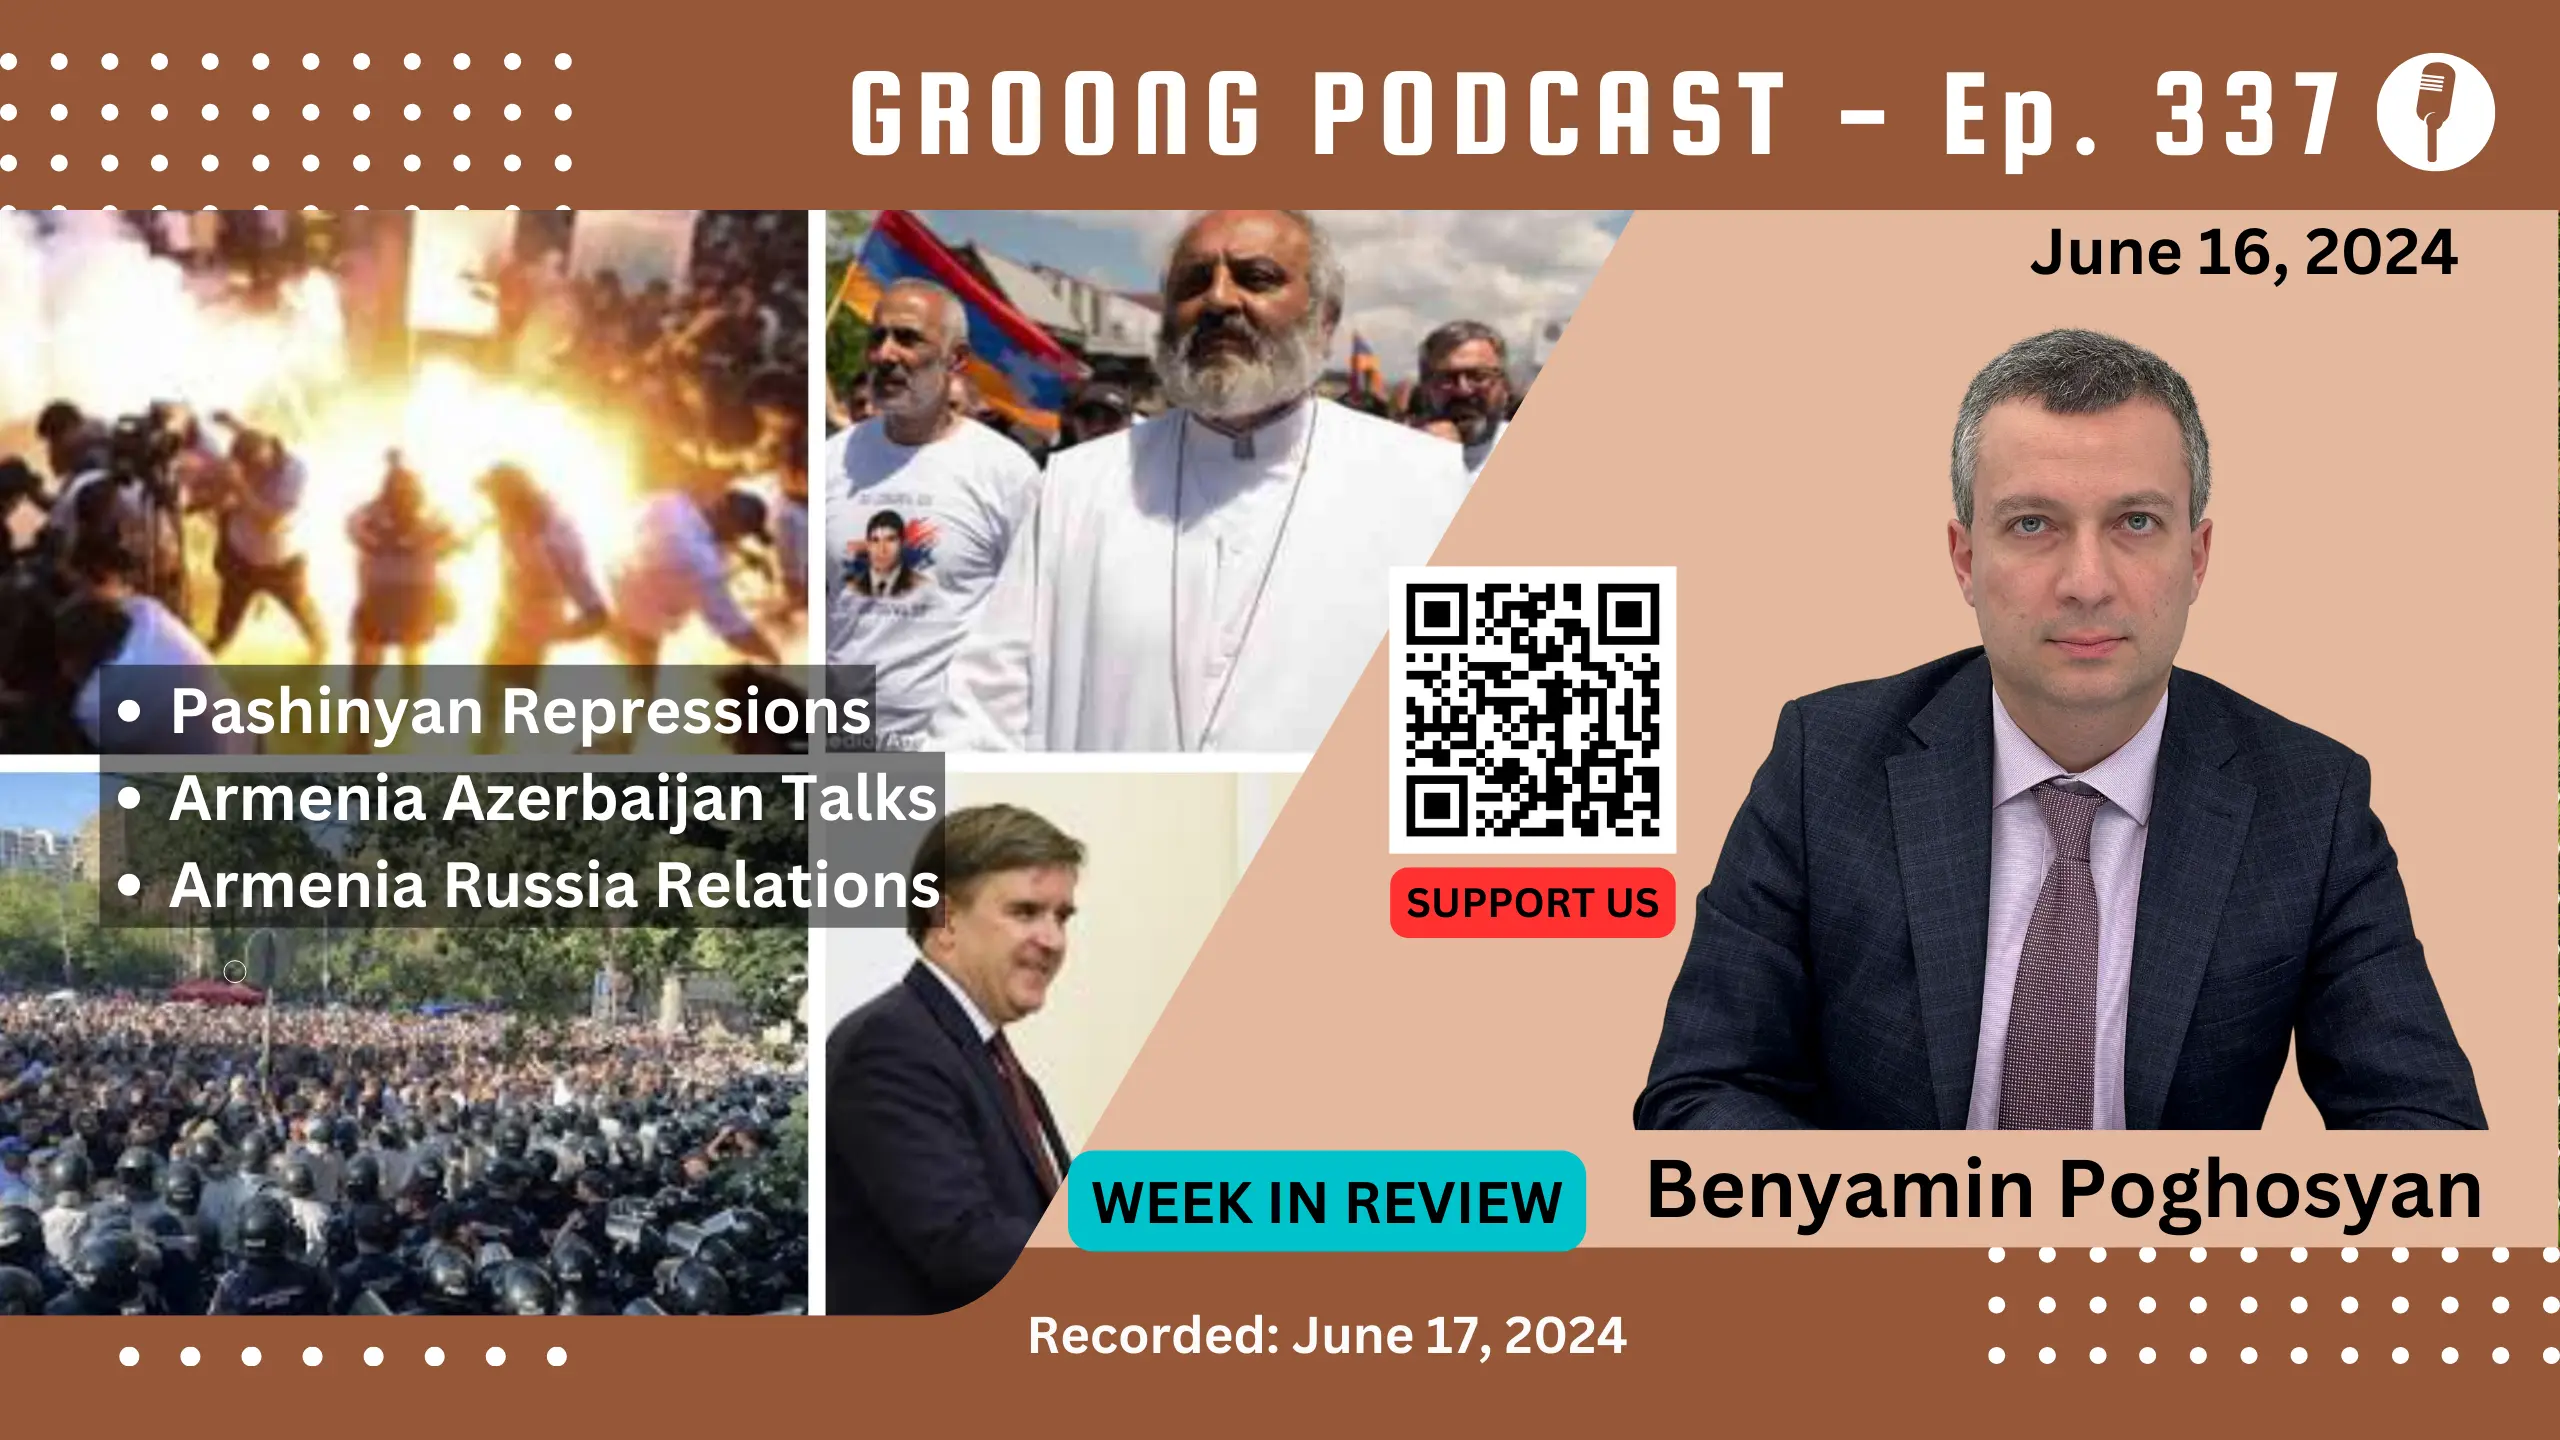
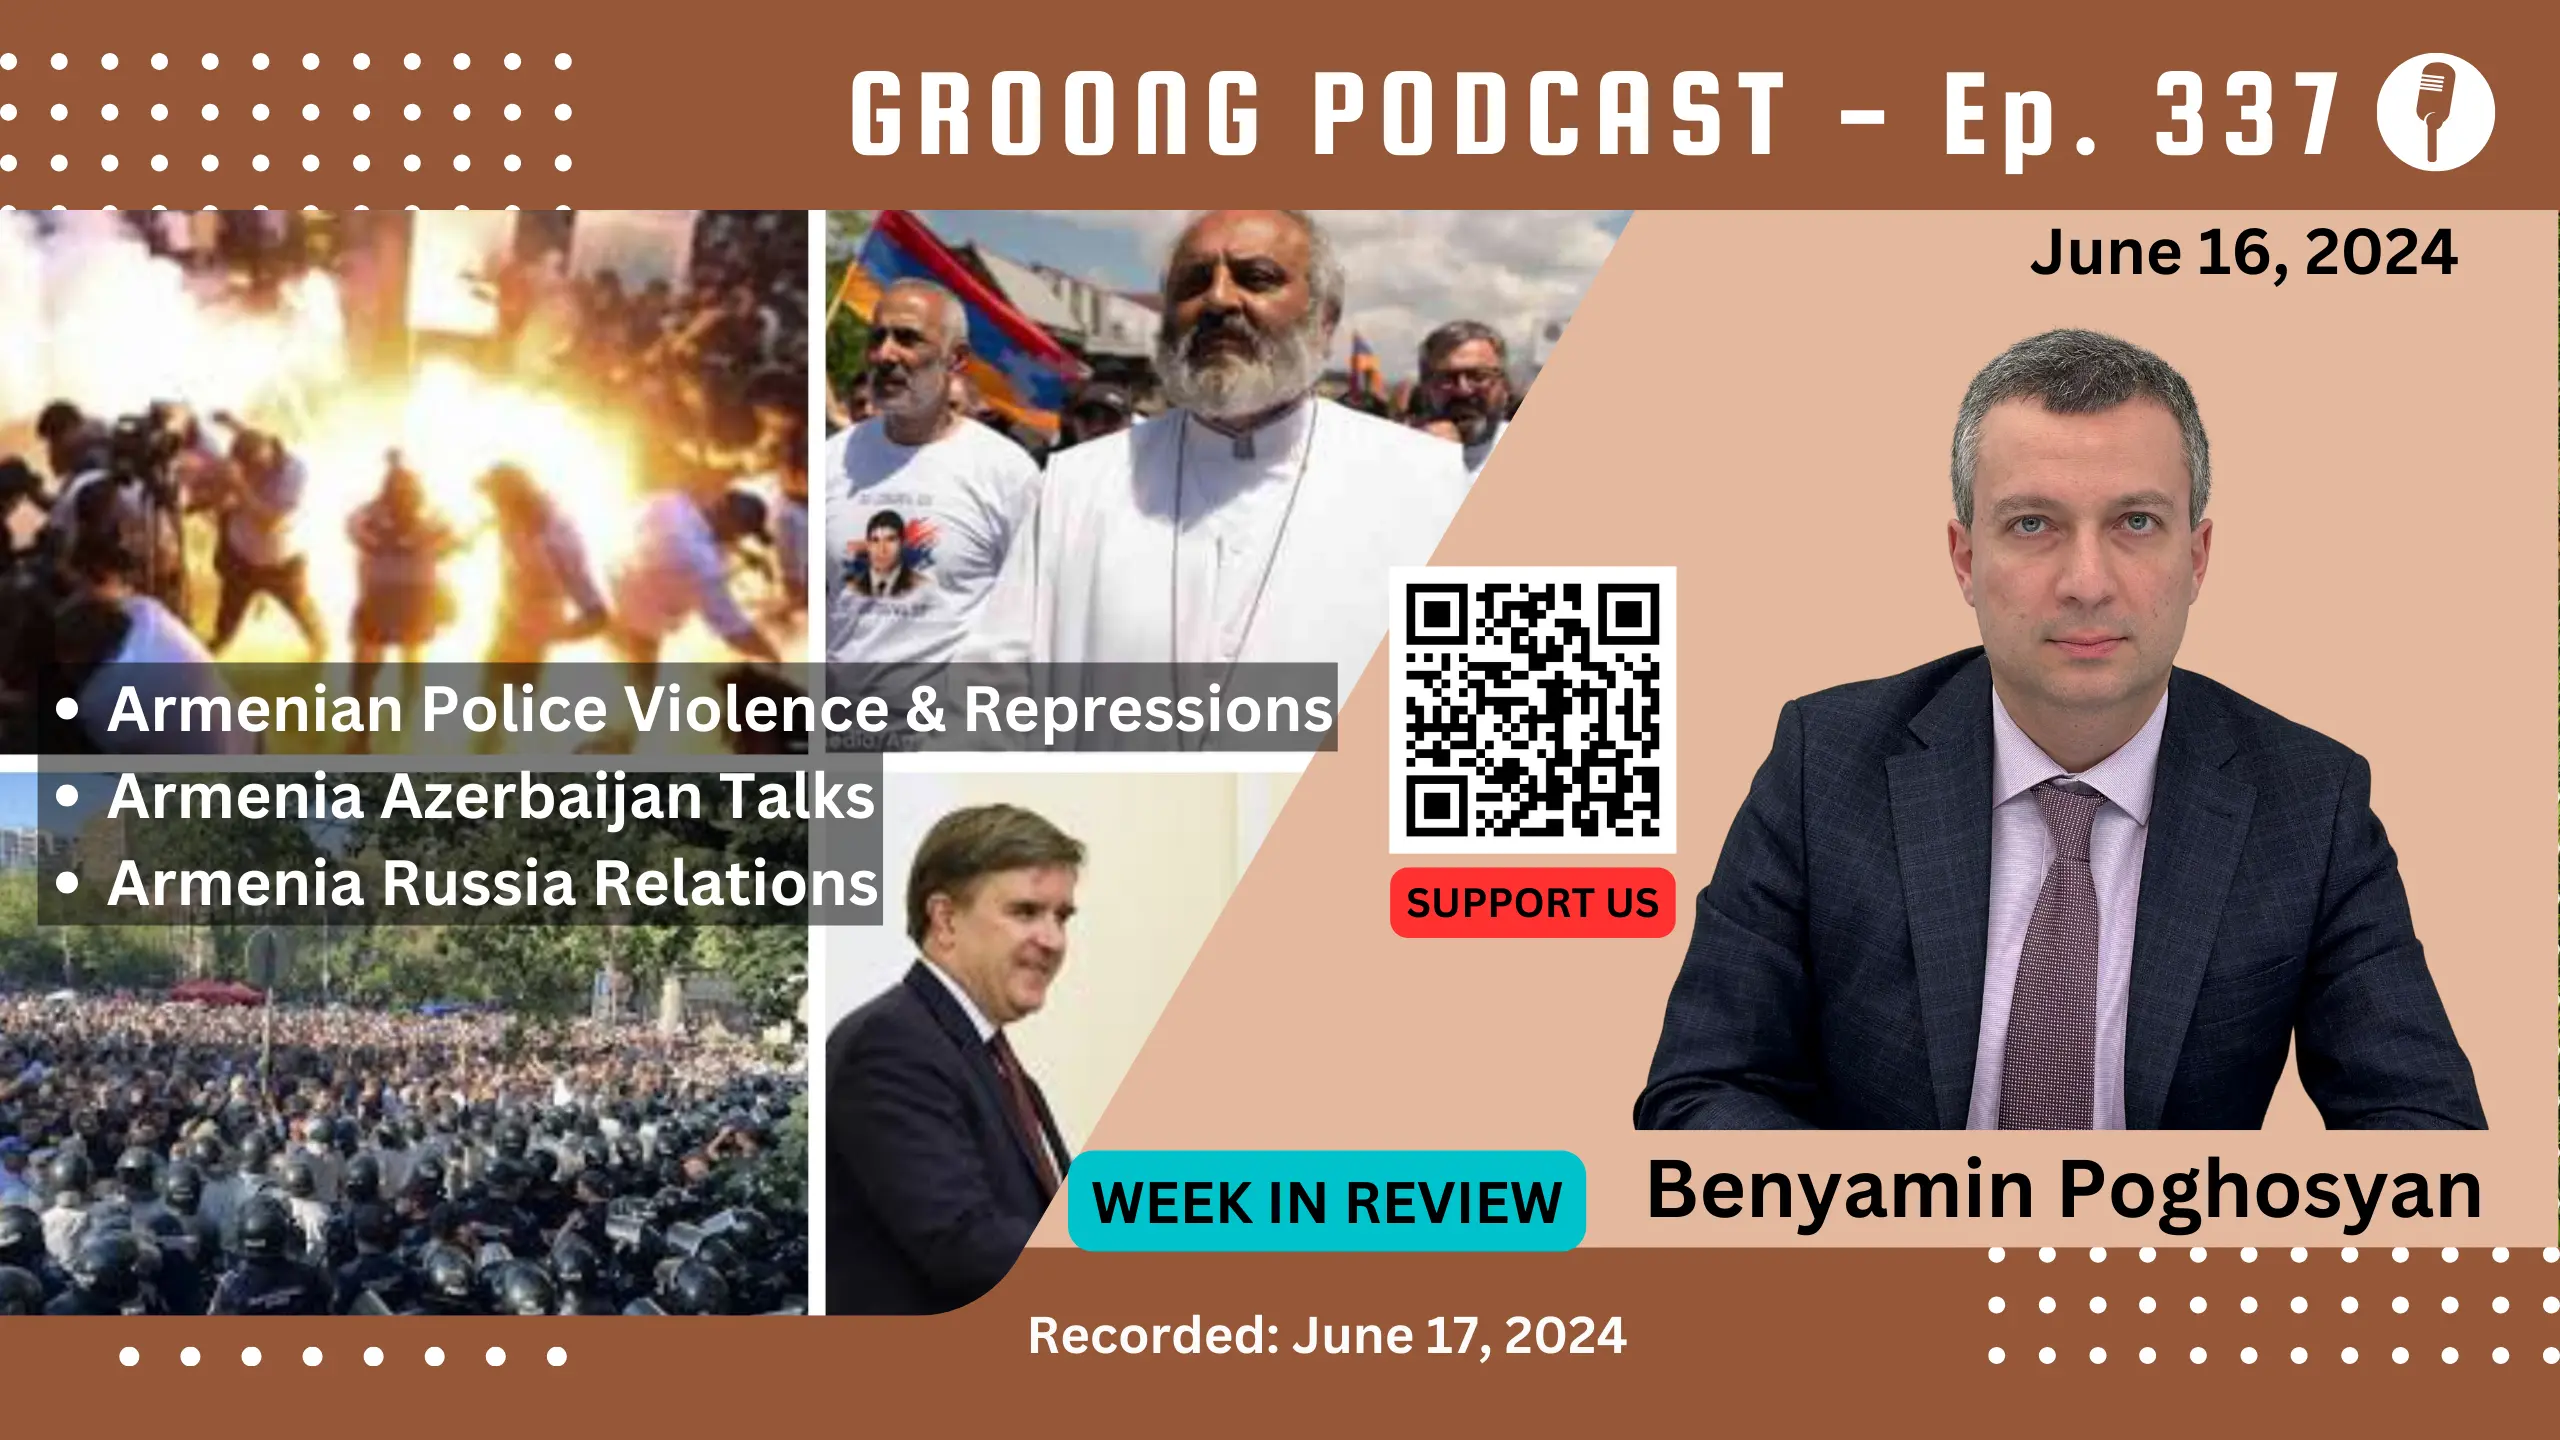
Go live ep 337

Changed region(s): [[0.0, 0.4375, 0.5312, 0.6562]]

diff --git a/content/episode/337-benyamin-poghosyan-pashinyan-repressions-armenia-azerbaijan-talks-armenia-russia-relations.md b/content/episode/337-benyamin-poghosyan-pashinyan-repressions-armenia-azerbaijan-talks-armenia-russia-relations.md
@@ -1,14 +1,14 @@
 +++
 
 Date = 2024-06-18T00:15:00-04:00
-upcoming = true
+upcoming = false
 
 title = "Benyamin Poghosyan - Pashinyan Repressions, Armenia Azerbaijan Talks, Armenia Russia Relations | Ep 337 - June 16, 2024"
 subtitle = "Groong Week in Review - June 16, 2024"
 
-podcast_file = ""
-podcast_bytes = ""
-podcast_duration = ""
+podcast_file = "15273576-benyamin-poghosyan-police-violence-and-repressions-armenia-azerbaijan-talks-armenia-russia-relations-ep-337-june-16-2024.mp3"
+podcast_bytes = "43067454"
+podcast_duration = "3586"
 youtube = ""
 
 episode_image = "img/episode/337/thumbnail-337.webp"
@@ -43,6 +43,79 @@ Episode 337 | Recorded: June 17, 2024
 
 +++
 
+## Police Violence and Repressions
+
+June 12 came and went. It was billed as a sort of culminating point and the date when Bagrat Srbazan’s assurances, that he needed 96 hours to remove Pashinyan, expired.
+
+It proved to be a bloody day. On that day, the Pashinyan regime proved that they’re willing to use unprecedented force to suppress the protesters. Up to a hundred people sought medical attention after the police lobbed dozens of stun grenades at the protesters, many of them protesters.
+
+
+    NOTE: It’s important to highlight that the stun grenades that were used are [reported](https://cat-uxo.com/explosive-hazards/grenades/zarya-hand-grenade) to produce noise greater than 170dB, which can instantly cause permanent hearing damage. Today, I talked to a participant who was affected by the stun grenade. 5 days after the incident, he has hearing issues.
+
+Today (June 17) there was another protest, on the occasion of the hearing in parliament that Bagrat Srbazan had demanded, in order to send a demand to Pashinyan for resignation. As promised, Civil Contract deputies boycotted the session triggering quorum failure.
+
+**Questions**:
+* What next in the movement?
+* Any announcements from Bagrat Srbazan yet on continuing the movement?
+
+The US Embassy’s response to the beating and injury of protesters on June 12 was to emphasize that protesters should “eschew violence”. Only after that do they also ask the police to refrain from violence, when this was chiefly a problem of disproportionate use of force by the police. According to various accounts, 25-30 stun grenades were fired.
+
+**Question**:
+* What was the reason for such a strong show of support?
+
+June 12 was not the end of it. Over the weekend, Pashinyan’s government launched a series of repressions. More than a dozen members of the ARF were arrested. After the head of the ride-sharing company GG issued a call to join the protests, the offices of GG were raided and all computers were confiscated. 
+
+**Question:**
+* Add to this the arrest of Artsakh mayors and the practice of arresting active protest participants for at least 72 hours and then letting them go without charges, does this indicate an over-reliance on brute force to suppress protesters? Is this a strategy that can work long-term for Pashinyan?
+
+
+## Armenia Azerbaijan Talks
+
+After the most recent war of words between Armenian and Azeri authorities about demands to change the Armenian constitution, or apologize for the so-called “Khojali genocide”, and for the two countries to apply together to annul the OSCE Minsk Group together, the State Department’s man to the South Caucasus, James O’Brien, and other [high level officials](https://armenpress.am/en/article/1193826) were in Yerevan this past week for high level meetings, as well as for delicious dolma ([in their own words](https://x.com/DepSecStateMR/status/1802614519652651249)).
+
+**Question**:
+* What were the key reasons for O’Brien’s trip to Yerevan? Why is there so much US attention on Armenia, and why now?
+
+[Azeri media talks](https://www.eurasiareview.com/16062024-azerbaijan-sets-terms-for-usa-eu-and-armenia-in-south-caucasus-geopolitics-oped/) about the so-called “Zangezur Corridor” as a fait-accompli, and claim that the US and the west are currently pressuring Armenia to open the extraterritorial corridor to meet their interests.
+
+**Questions**:
+* What’s the status of that issue within the Armenian-Azerbaijani talks? And what are the key differences between Aliyev’s “corridor” through Armenia and Pashinyan’s “crossroads of peace”?
+* What are the interests of the west, in this issue?
+* Within 2 weeks there will be presidential elections in Iran. Do you foresee any shifts in Iranian policy and their red lines regarding Armenia’s territorial integrity and Azerbaijan’s demands for corridors?
+
+
+## Armenia - Russia Relations
+
+Pashinyan continued on his anti-CSTO theme this week. Previously he had alleged, without clarifying any details, that 2 CSTO countries actively helped Azerbaijan before and during the 2020 war.
+
+This week, he continued ranting against the CSTO by highlighting the pro-Azerbaijani role that Belarus has played since before the 44-day war. He vowed that as long as Lukashenko is president, neither he nor any Armenian official will visit Belarus. 
+
+The two countries also recalled their respective ambassadors for consultations”.
+
+**Questions**:
+* Did Pashinyan just wake up and realize that Belarus has been supplying weapons to Azerbaijan?
+    * Is this treatment also going to apply to Israel? Turkey? Hungary? Bulgaria? Slovakia? Italy? 
+    * How about THE UNITED STATES, who by the way provided a significant amount of military equipment to Azerbaijan for free (ostensibly to counter Iran)?
+    * What’s really behind this emotional tirade from Pashinyan?
+
+
+### Ukraine Summit in Switzerland
+
+The Ukraine “Peace Summit” in Switzerland is over. The organizers present it as a success, despite Russia, one of the main warring parties, not being present and rejecting the conference. Ten countries, including some major ones such as India and Brazil [refused to sign the final declaration](https://www.theguardian.com/world/live/2024/jun/16/russia-ukraine-war-peace-summit-enters-second-day-as-west-looks-to-put-pressure-on-russia). What’s even more interesting is that Armenia is also one of those ten countries!
+
+
+    NOTE: The full list of countries: Armenia, Brazil, Slovakia, India, Mexico, Saudi Arabia, Thailand, South Africa, and the UAE did not sign the final declaration.
+
+**Questions:**
+* Why did Armenia [attend](https://www.azatutyun.am/a/32993202.html) this summit, and what was the cause for this apparent caution by Pashinyan?
+* Did this summit bring the world closer to ending the war in Ukraine?
+* At the same time, Putin [stated his conditions](https://www.rt.com/russia/599276-putin-names-conditions-peace-talks/) for ending the war in Ukraine. Does that bring us any closer to ending the conflict?
+
+
+## Thoughts from Participants
+
+* **Hovik**: June 12th police violent attacks against journalists and the media, and again western government silence in the face of it.
+* **Benyamin**: Pashinyan’s counter logical, ahistorical “Real Armenia” vs “Historical Armenia” argument.
 
 # Wrap-up
 
